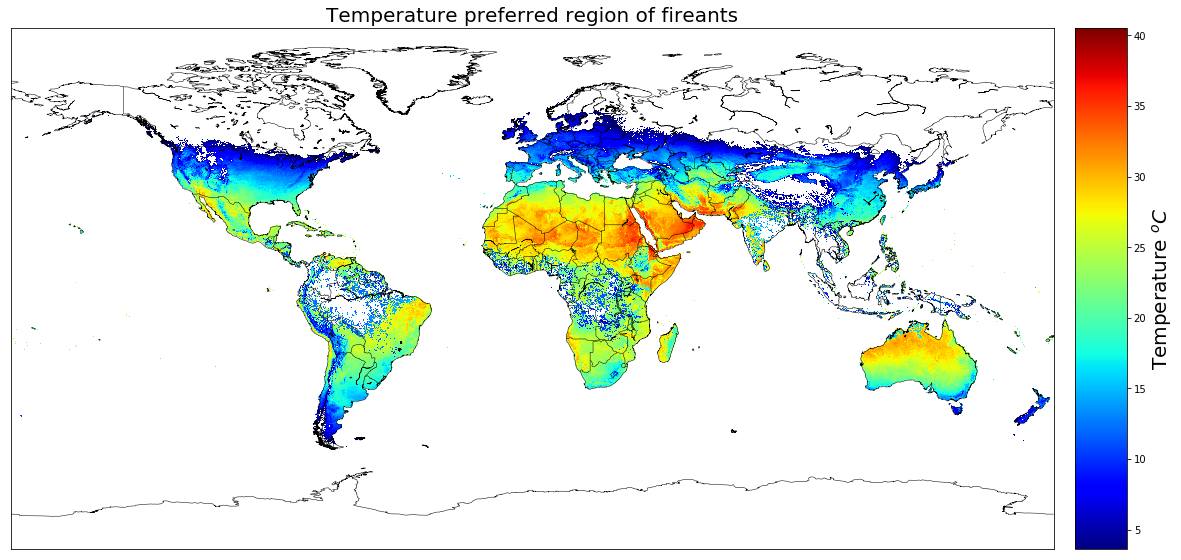
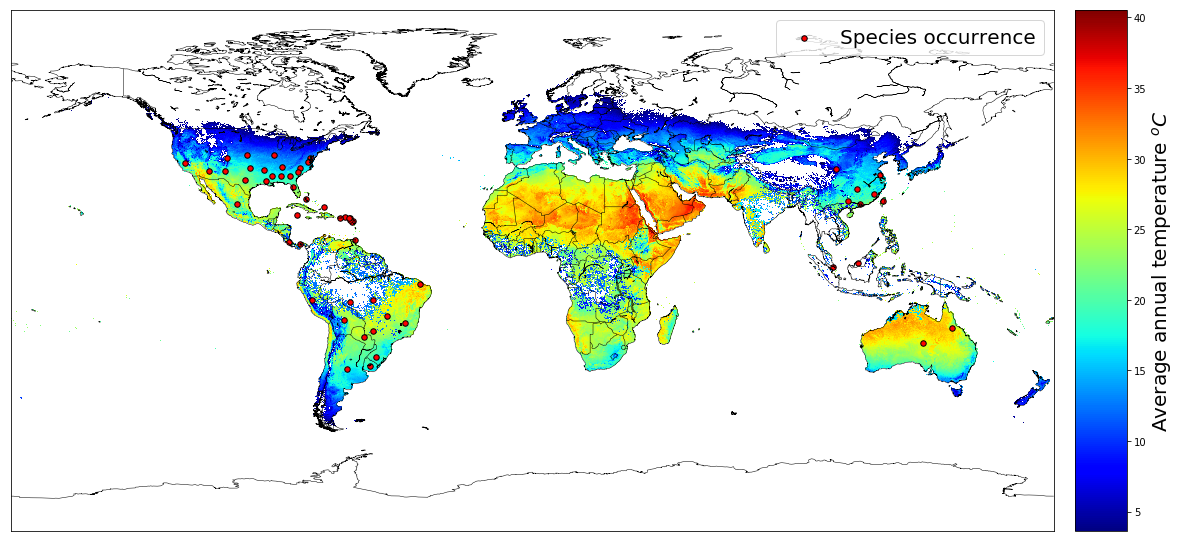
add png and species plot

diff --git a/Data/Species/plot_species.py b/Data/Species/plot_species.py
@@ -1,0 +1,19 @@
+df = pd.read_csv("Solenopsis invicta.csv",
+                 skiprows = 1,
+                encoding="iso-8859-1")
+plt.figure(figsize=(10,10))
+m = Basemap(projection='cyl', resolution = 'l',
+    llcrnrlat=-90, urcrnrlat=90,llcrnrlon=-180,urcrnrlon=180)
+lon = df["Longitude"]
+lat = df["Latitude"]
+lon_ = [];lat_ = []
+for x, y in zip(lon,lat):
+    try:
+        xx, yy = m(float(x),float(y))
+        lon_.append(xx);lat_.append(yy)
+    except:
+        pass
+m.scatter(lon_, lat_, marker = "o" ,s=15, c="r" , edgecolors = "k", alpha = 1)
+m.drawcoastlines()
+plt.title('Fire ant occurence')
+plt.show()
